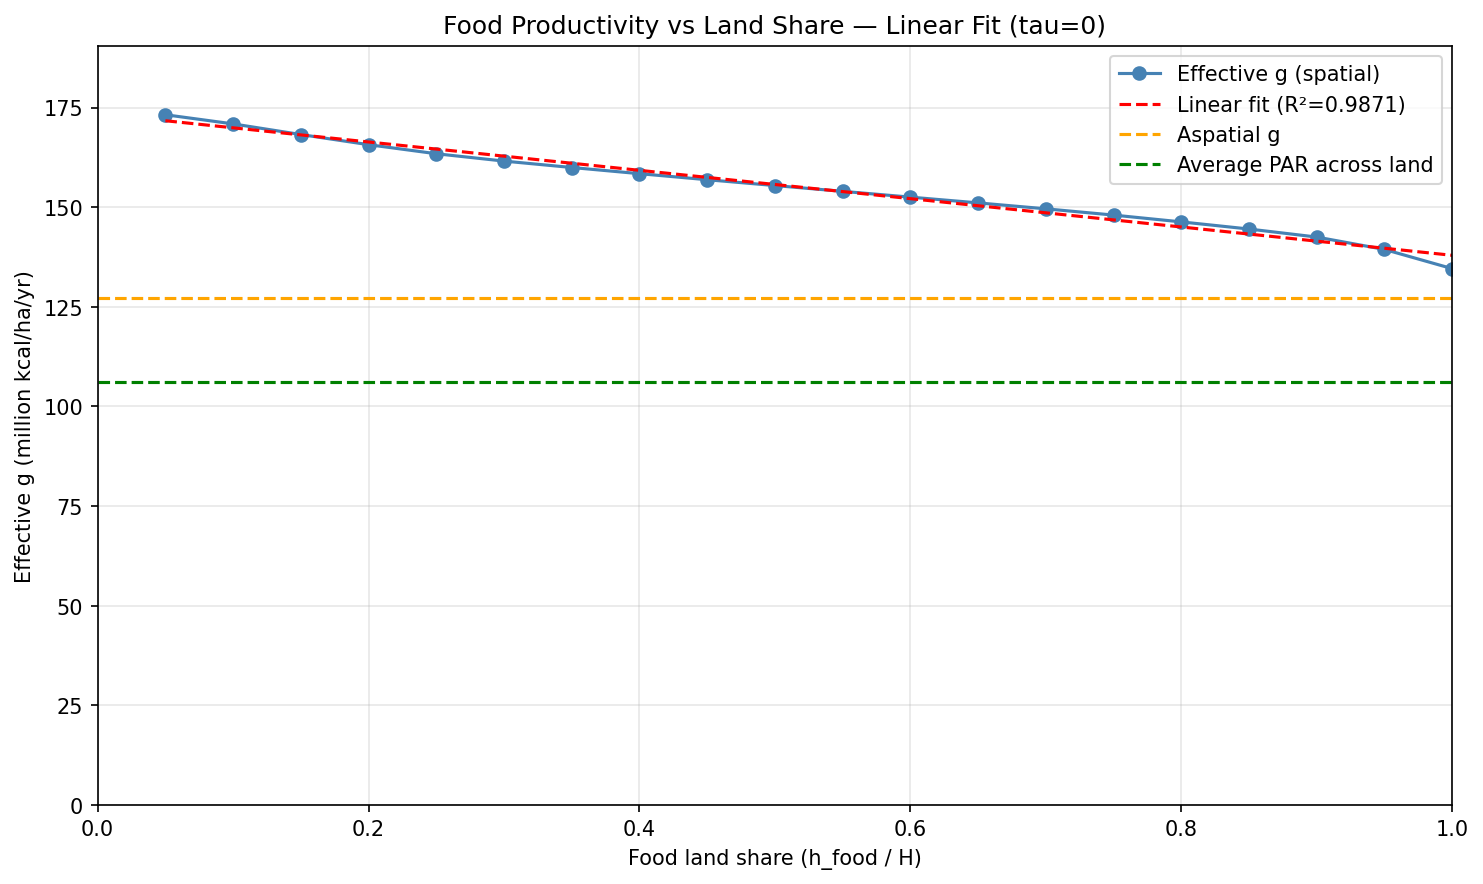
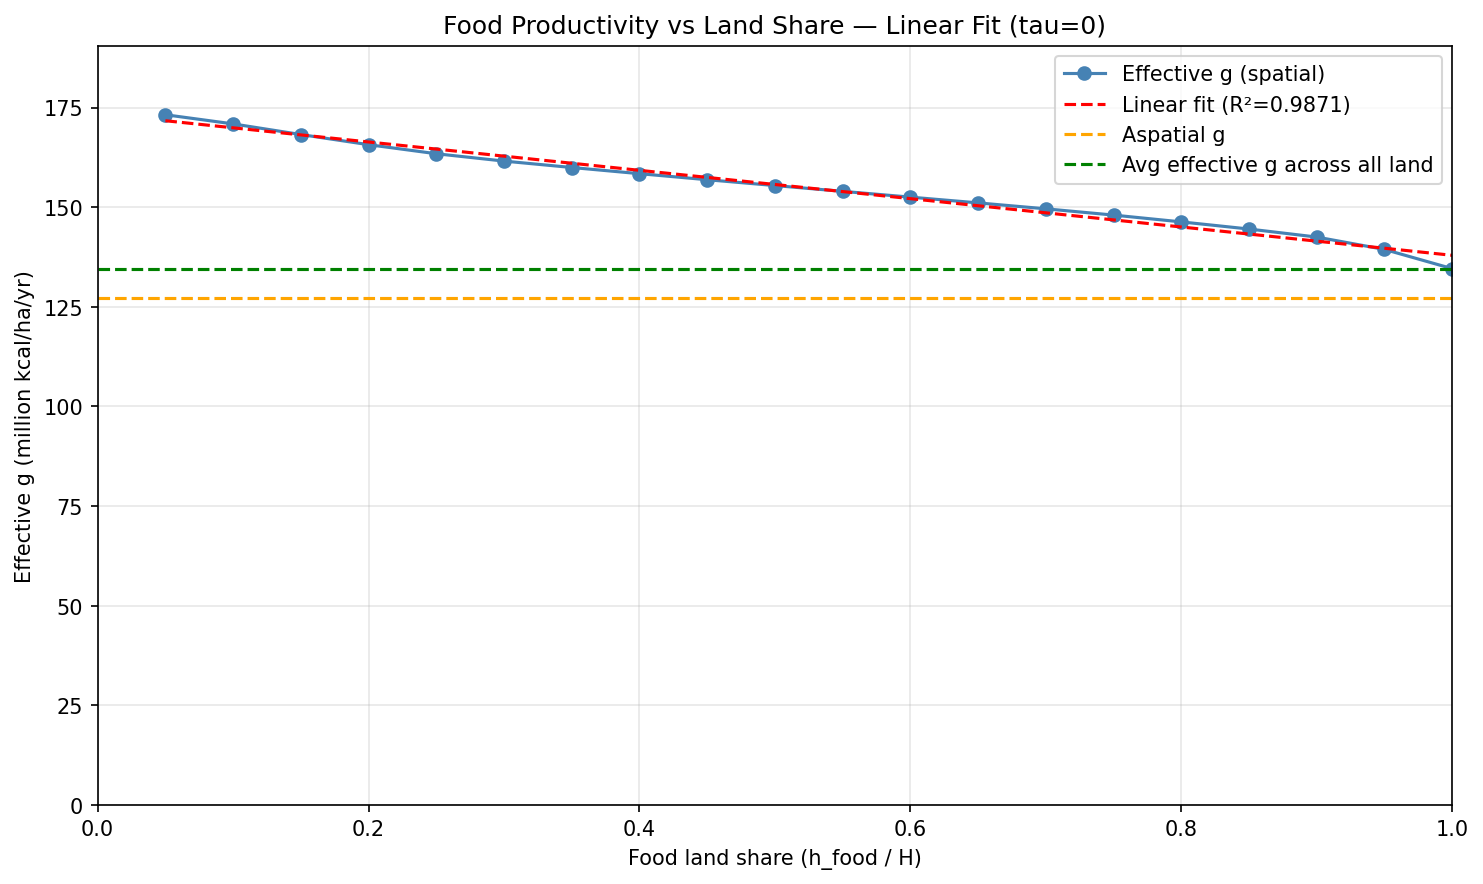
fixing typos

Changed region(s): [[0.7134, 0.0611, 0.9305, 0.2138]]

diff --git a/spatial_g_water.py b/spatial_g_water.py
@@ -88,9 +88,9 @@ def allocate_water(waterflux, waterNeed):
     np.put_along_axis(lDemMet, idxs, lDemMetSort, axis=2)
 
     # reallocated waterflux
-    demandFrac = np.where(demandSum[..., np.newaxis] > 0,
-                      waterDemand / (demandSum[..., np.newaxis] + 1e-10),
-                      0.0)
+    demandFrac    = np.where(demandSum[..., np.newaxis] > 0,
+                             waterDemand / demandSum[..., np.newaxis],
+                             0.0)
     waterflux_irr = (fluxSum - resid)[..., np.newaxis] * demandFrac + lDemMet * latentDemand
 
     return waterflux_irr

diff --git a/spatial_g.py b/spatial_g.py
@@ -19,7 +19,6 @@ def load_spatial_data(filepath='hcc_spatial_input.mat'):
     Loads the HCC spatial input data from the .mat file.
 
     Returns
-    -------
     PAR : (180, 360, 365) — photosynthetically active radiation (MJ/m2/day)
     area : (180, 360) — grid cell area (m2)
     farmedPct : (180, 360) — fraction of cell currently farmed
@@ -44,14 +43,12 @@ def get_kcal_per_ha(PAR, eimat, area, tau):
     Computes annual food productivity per hectare for each grid cell.
 
     Parameters
-    ----------
     PAR : (180, 360, 365) — photosynthetically active radiation
     eimat : (180, 360, 365) — light interception efficiency
     area : (180, 360) — grid cell area in m2
     tau : float — technology level in [0, 1]
 
     Returns
-    -------
     kcal_per_ha : (180, 360) — food productivity in kcal/ha/yr
     area_ha : (180, 360) — grid cell area in hectares
     """
@@ -107,12 +104,10 @@ def effective_par_from_g(eff_g, tau):
     changing ecc_optimization.py.
 
     Parameters
-    ----------
     eff_g : float — effective g in kcal/ha/yr
     tau : float — technology level
 
     Returns
-    -------
     float : effective PAR in MJ/m2/yr
     """
     conversion     = tau * (0.123 - 0.123 / 2.5) + 0.123 / 2.5